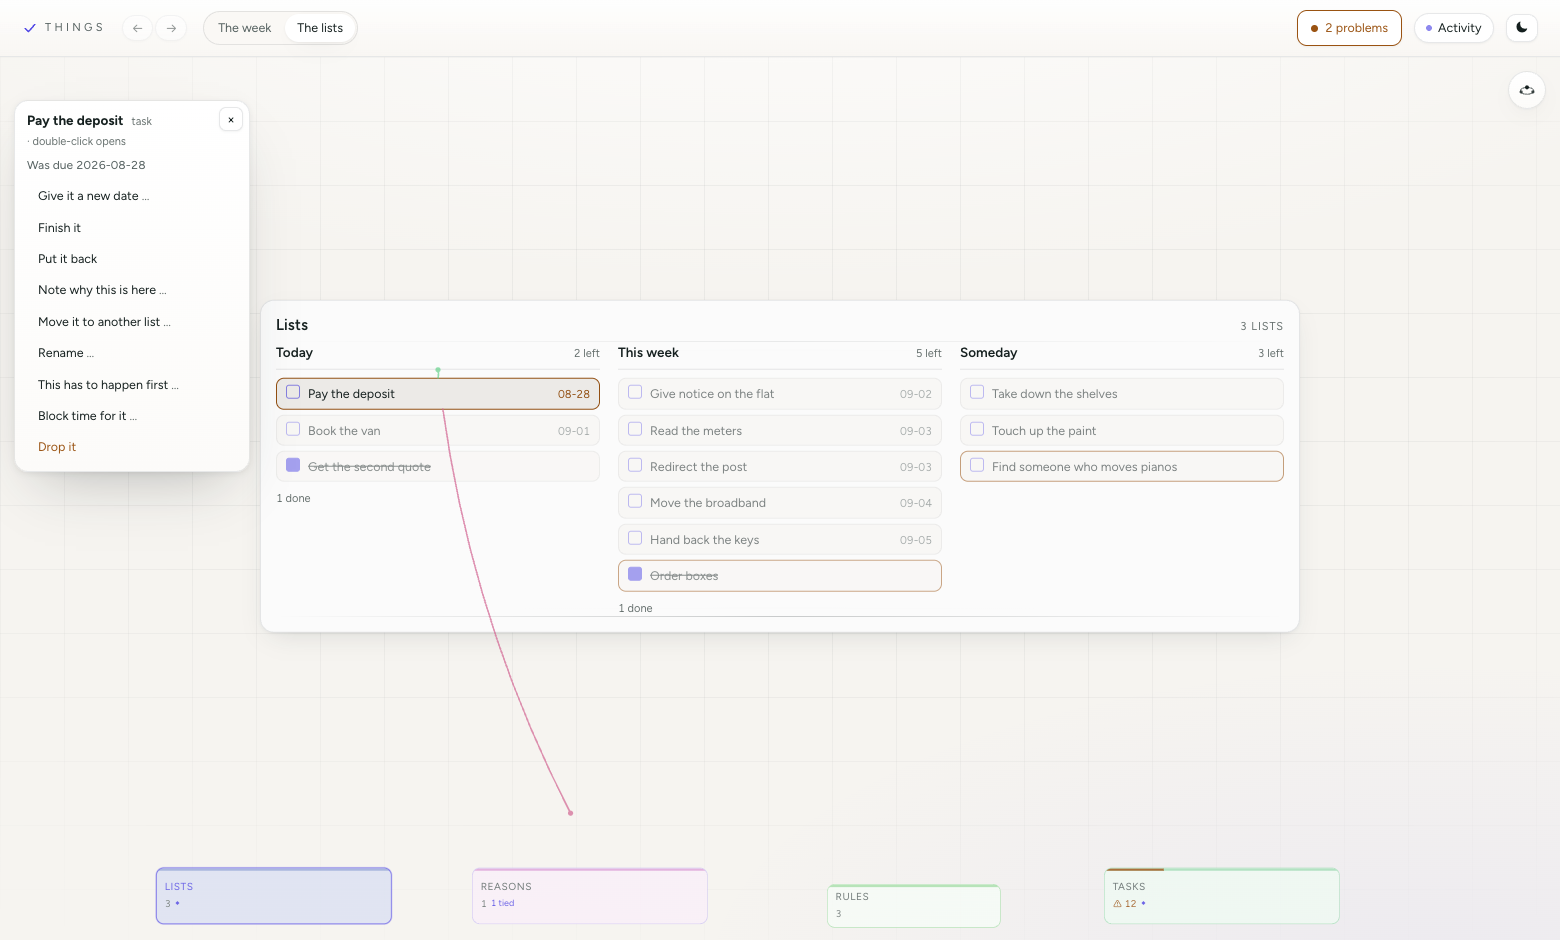
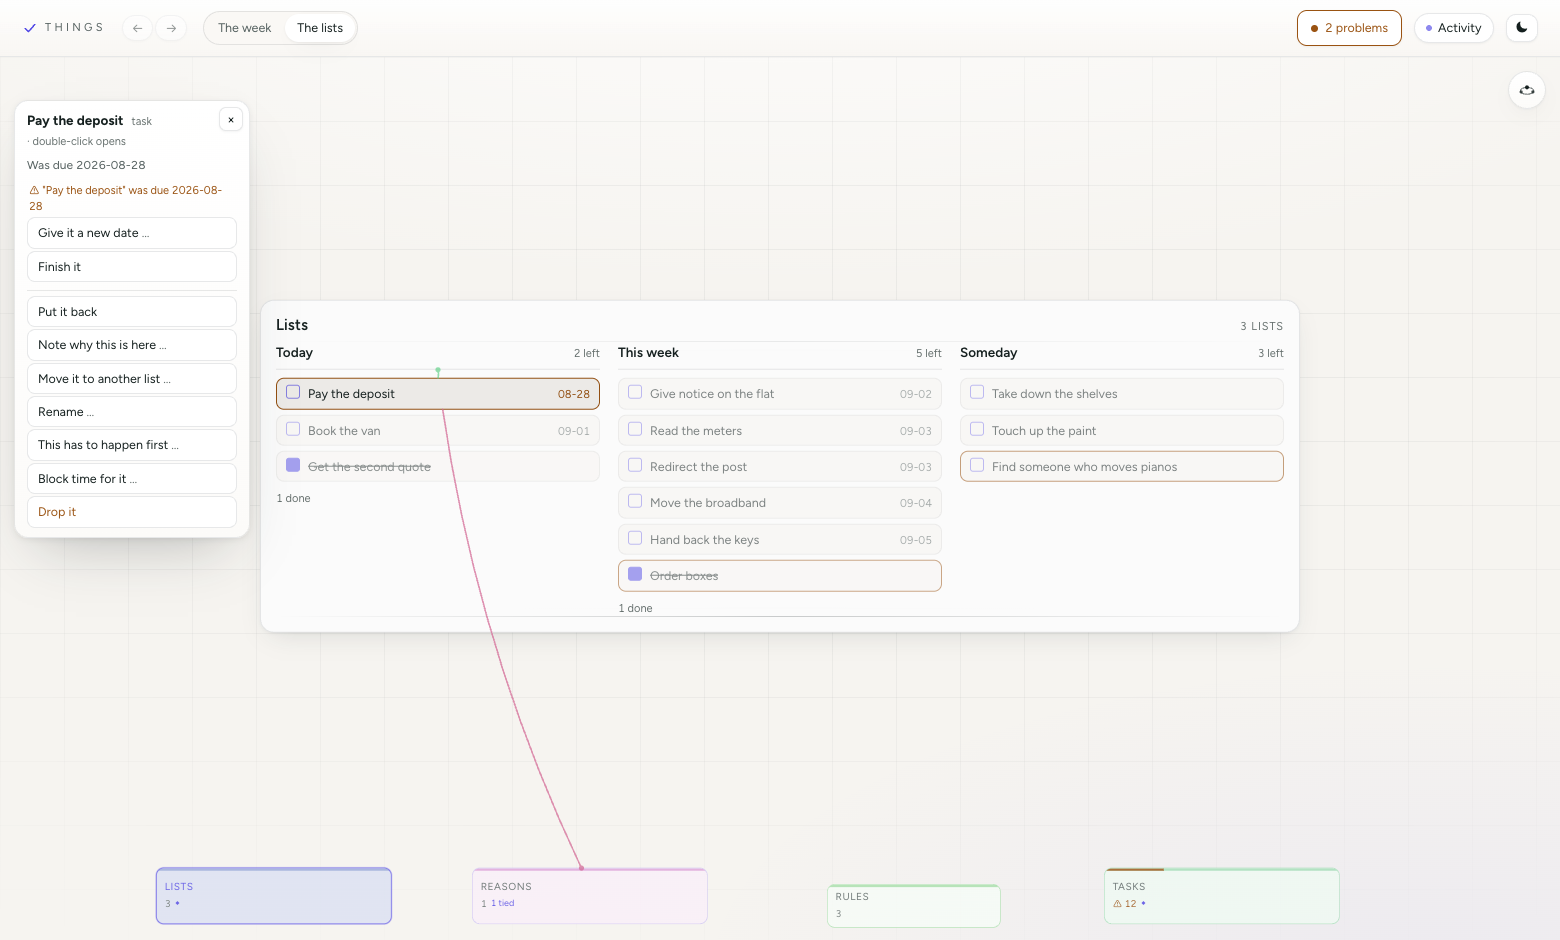
Repairs say what they answer, and every line lands on the thing it means
THE PANE EXPLAINS ITSELF. Actions group under what they answer: a repair
arrives carrying its violation, and that sentence now heads its group — so
"Cut 'Crossing and finishing' from Thursday session — 20 minutes back"
sits under "⚠ Thursday session plans 65 minutes into 60 — 5 over" instead
of appearing from nowhere (and the coaching example's cut/shorten/run-later repairs name
their session at the source). Rows read as PRESSABLE — border and ground
like every button in the product; bare text rows read as remarks, and
nobody presses a remark. The pointer menu keeps its menu rows. The pane
also stops above the raised band and scrolls, so a tall list of repairs
cannot buy its height with the first raised card.

EVERY LINE LANDS. Three anchoring faults, one theme — lines aimed at boxes
nobody can see. A rotated column header's bounding box is a huge diagonal
rectangle, so ties anchored mid-air: of all elements wearing an id, the
SMALLEST is now the anchor. A tie to a chip inside the selection's own
card is the selection restating itself and draws nothing — unless the
origin is itself an element, because chip-to-chip inside one view is the
view's wiring made visible. In-stack targets no longer land on the
invisible iso block (it exists only at altitude). Captions hang above the
measured panels rather than the band slots. And the tween ends with one
SETTLE TICK: render-time measurement reads the previous commit, so the
[…]

Changed region(s): [[0.0, 0.1851, 0.1538, 0.5862], [0.3385, 0.8021, 0.3692, 0.8638], [0.3077, 0.7096, 0.3385, 0.7404]]

diff --git a/packages/react/src/scene.tsx b/packages/react/src/scene.tsx
@@ -553,10 +553,16 @@ export function Scene<S extends AnySchema>({
         selection={selection}
         store={store}
         graphNodes={nodes}
+        overview={view.overview ?? false}
         width={result.width}
         height={result.height}
       />
-      <RelationCaptions nodes={frame.nodes} scheme={scheme} width={result.width} />
+      <RelationCaptions
+        nodes={frame.nodes}
+        scheme={scheme}
+        width={result.width}
+        stageRef={wrapperRef}
+      />
       {children}
     </div>
   );
@@ -585,6 +591,7 @@ function SelectionTies<S extends AnySchema>({
   selection,
   store,
   graphNodes,
+  overview,
   width,
   height,
 }: {
@@ -594,6 +601,8 @@ function SelectionTies<S extends AnySchema>({
   readonly selection: readonly string[];
   readonly store: { graph: GraphReader<NodeOfSchema<S>> };
   readonly graphNodes: unknown;
+  /** From altitude a district's visible body is its iso block. */
+  readonly overview: boolean;
   readonly width: number;
   readonly height: number;
 }) {
@@ -622,13 +631,24 @@ function SelectionTies<S extends AnySchema>({
    * itself is still a place a tie can land on).
    */
   const elementBox = (id: string): { x: number; y: number; width: number; height: number } | null => {
-    const el = stageRef.current?.querySelector(
+    /*
+     * The SMALLEST element wearing the id. One node can be drawn several
+     * times — a chip in a card, a row label, a rotated column header — and
+     * a rotated header's bounding box is a huge diagonal rectangle whose
+     * border is nowhere near the visible text: a tie anchored to it lands
+     * in open air. The smallest box is the most honest anchor there is.
+     */
+    const els = stageRef.current?.querySelectorAll(
       `[data-graview-pick="${CSS.escape(id)}"], [data-graview-slot="${CSS.escape(id)}"]`,
     );
-    if (!el) return null;
-    const rect = el.getBoundingClientRect();
-    if (rect.width <= 2) return null;
-    return { x: rect.left - stage.left, y: rect.top - stage.top, width: rect.width, height: rect.height };
+    let best: DOMRect | null = null;
+    for (const el of els ?? []) {
+      const rect = el.getBoundingClientRect();
+      if (rect.width <= 2 || rect.height <= 2) continue;
+      if (!best || rect.width * rect.height < best.width * best.height) best = rect;
+    }
+    if (!best) return null;
+    return { x: best.left - stage.left, y: best.top - stage.top, width: best.width, height: best.height };
   };
   /** The laid-out node that IS this id, or stands for it. */
   const hostOf = (id: string): SceneNode | undefined =>
@@ -639,26 +659,66 @@ function SelectionTies<S extends AnySchema>({
   const lines: { key: string; kind: string; d: string; endX: number; endY: number }[] = [];
   for (const tie of ties) {
     const selfHost = hostOf(tie.self);
-    const otherEl = elementBox(tie.other);
-    const otherHost = hostOf(tie.other);
-    /*
-     * A tie INTERNAL to the view you are looking at draws no line. With no
-     * element of its own, the neighbour would resolve to the same container
-     * the selection sits in — a line from a thing to the border of its own
-     * room, which is the broken-looking stub this replaces. The view's own
-     * emphasis already shows in-view relationships.
-     */
-    if (!otherEl && otherHost && selfHost && otherHost.id === selfHost.id) continue;
+    const selfHostEl = selfHost
+      ? stageRef.current?.querySelector(`[data-graview-view="${CSS.escape(selfHost.id)}"]`)
+      : null;
+    const fromEl = elementBox(tie.self);
     const fromBox =
-      elementBox(tie.self) ??
+      fromEl ??
       (selfHost
         ? (measureVisible(stageRef.current, selfHost.id, false) ?? drawnBox(selfHost, scheme))
         : null);
-    const toBox =
-      otherEl ??
-      (otherHost
-        ? (measureVisible(stageRef.current, otherHost.id, true) ?? drawnBox(otherHost, scheme))
-        : null);
+    /*
+     * Where the OTHER end lands, in order of honesty:
+     *
+     * 1. Its own placed card — a raised or ring node is the thing itself,
+     *    and beats any chip that merely mentions it (the fan of dashes
+     *    sweeping out of the fixture card's own border was ties preferring
+     *    the card's OWN chips over the real cards below).
+     * 2. An element standing for it — but an element inside the selection's
+     *    own card only counts when the origin is itself an element:
+     *    chip-to-chip inside one view is the view's wiring made visible;
+     *    whole-card-to-its-own-chip is the selection restating itself.
+     * 3. The group card containing it — unless that is the very card the
+     *    selection sits in, in which case the tie is internal and the
+     *    view's own emphasis already shows it.
+     */
+    const otherNode = nodes.find((node) => node.id === tie.other);
+    let toBox: { x: number; y: number; width: number; height: number } | null = null;
+    if (otherNode) {
+      toBox =
+        measureVisible(stageRef.current, otherNode.id, overview) ?? drawnBox(otherNode, scheme);
+    } else {
+      const otherEls = [
+        ...(stageRef.current?.querySelectorAll(
+          `[data-graview-pick="${CSS.escape(tie.other)}"], [data-graview-slot="${CSS.escape(tie.other)}"]`,
+        ) ?? []),
+      ];
+      if (otherEls.length > 0) {
+        let best: DOMRect | null = null;
+        for (const el of otherEls) {
+          const internal = selfHostEl ? selfHostEl.contains(el) : false;
+          if (internal && !fromEl) continue;
+          const rect = el.getBoundingClientRect();
+          if (rect.width <= 2 || rect.height <= 2) continue;
+          if (!best || rect.width * rect.height < best.width * best.height) best = rect;
+        }
+        if (best)
+          toBox = {
+            x: best.left - stage.left,
+            y: best.top - stage.top,
+            width: best.width,
+            height: best.height,
+          };
+      } else {
+        const otherHost = hostOf(tie.other);
+        if (otherHost && (!selfHost || otherHost.id !== selfHost.id)) {
+          toBox =
+            measureVisible(stageRef.current, otherHost.id, overview) ??
+            drawnBox(otherHost, scheme);
+        }
+      }
+    }
     if (!fromBox || !toBox) continue;
     // Several members of one shelf card collapse to one line per relation.
     const key = `${tie.kind}:${Math.round(fromBox.x)}:${Math.round(toBox.x)},${Math.round(toBox.y)}`;
@@ -739,18 +799,27 @@ function RelationCaptions({
   nodes,
   scheme,
   width: stageWidth,
+  stageRef,
 }: {
   readonly nodes: readonly SceneNode[];
   readonly scheme: "light" | "dark";
   readonly width: number;
+  readonly stageRef: { current: HTMLElement | null };
 }) {
   const runs: { key: string; text: string; left: number; right: number; top: number }[] = [];
   for (const node of nodes) {
     if (!node.via || Math.round(node.plane) !== 1) continue;
+    /*
+     * Above the PANEL someone can see, not the band slot the layout allots:
+     * a raised card centres its panel in a taller host, so a caption hung
+     * from the host's top floated in open ground half a band above the
+     * cards it captions.
+     */
+    const measured = measureVisible(stageRef.current, node.id, false);
     const { scale } = styleFor(1, scheme);
-    const left = node.x;
-    const right = node.x + node.width * scale;
-    const top = node.y;
+    const left = measured?.x ?? node.x;
+    const right = measured ? measured.x + measured.width : node.x + node.width * scale;
+    const top = measured?.y ?? node.y;
     const last = runs[runs.length - 1];
     if (last && last.key === node.via.edgeKind) {
       last.right = Math.max(last.right, right);

diff --git a/packages/primitives/src/workbench/index.tsx b/packages/primitives/src/workbench/index.tsx
@@ -276,6 +276,21 @@ export function Inspector() {
 
   const shown = expanded || atPointer ? affordances : affordances.slice(0, fits);
   const hidden = affordances.length - shown.length;
+  /*
+   * GROUPED BY WHAT THEY ANSWER. A repair arrives carrying the violation
+   * that produced it, and without that sentence over it, "Cut X from
+   * Thursday" offered on a selection of Y reads as a non sequitur. The
+   * ranked order is untouched — consecutive repairs of one violation
+   * gather under its sentence; everything else runs on below.
+   */
+  const sections: { heading: string | null; items: typeof affordances }[] = [];
+  for (const affordance of shown) {
+    const heading =
+      !atPointer && affordance.provider === "invariant" ? affordance.why : null;
+    const last = sections[sections.length - 1];
+    if (last && last.heading === heading) (last.items as Affordance[]).push(affordance);
+    else sections.push({ heading, items: [affordance] });
+  }
   const open = affordances.find((affordance) => affordance.id === pending);
 
   /*
@@ -346,7 +361,12 @@ export function Inspector() {
               // surveyed width, so the pane sits NEXT to the picture rather
               // than on its title.
               width: 236,
-              maxHeight: view.overview ? "calc(100vh - 372px)" : "calc(100vh - 104px)",
+              /*
+               * The pane stops ABOVE the raised band (plane 1 begins at 68%
+               * of the stage) and scrolls inside itself: a tall list of
+               * repairs must not buy its height with the first raised card.
+               */
+              maxHeight: view.overview ? "calc(100vh - 372px)" : "calc(68vh - 94px)",
               overflow: "auto",
             }),
       }}
@@ -512,44 +532,83 @@ export function Inspector() {
             gap: 2,
           }}
         >
-          {shown.map((affordance) => (
-            <li key={affordance.id}>
-              <button
-                type="button"
-                data-affordance={affordance.id}
-                data-graview-destructive={affordance.destructive || undefined}
-                aria-pressed={pending === affordance.id}
-                title={affordance.why}
-                style={{
-                  padding: "4px 10px",
-                  fontSize: 12.5,
-                  borderRadius: 8,
-                  width: "100%",
-                  textAlign: "left",
-                  border: "1px solid transparent",
-                  background: "none",
-                  boxShadow: "none",
-                  // What cannot be taken back says so before it is pressed —
-                  // and the ranking has already put it last.
-                  ...(affordance.destructive ? { color: "var(--graview-warn)" } : {}),
-                  ...(pending === affordance.id
-                    ? { borderColor: "var(--graview-accent)", color: "var(--graview-accent)" }
-                    : {}),
-                }}
-                onClick={() => {
-                  if (affordance.open.length > 0) {
-                    setPending(pending === affordance.id ? null : affordance.id);
-                    return;
-                  }
-                  act(affordance);
-                }}
-              >
-                {affordance.label}
-                {affordance.open.length > 0 ? (
-                  <span style={{ color: "var(--graview-ink-faint)" }}> …</span>
-                ) : null}
-              </button>
-            </li>
+          {sections.map((section, index) => (
+            <Fragment key={section.heading ?? `plain-${index}`}>
+              {/* The violation these repairs answer, said over them. */}
+              {section.heading ? (
+                <li
+                  role="presentation"
+                  style={{
+                    fontSize: 11,
+                    lineHeight: 1.4,
+                    color: "var(--graview-warn)",
+                    padding: "2px 2px 1px",
+                    marginTop: index > 0 ? 6 : 0,
+                  }}
+                >
+                  ⚠ {section.heading}
+                </li>
+              ) : index > 0 ? (
+                <li
+                  aria-hidden="true"
+                  style={{ borderTop: "1px solid var(--graview-edge)", margin: "6px 0 3px" }}
+                />
+              ) : null}
+              {section.items.map((affordance) => (
+                <li key={affordance.id}>
+                  <button
+                    type="button"
+                    data-affordance={affordance.id}
+                    data-graview-destructive={affordance.destructive || undefined}
+                    aria-pressed={pending === affordance.id}
+                    title={affordance.why}
+                    style={{
+                      padding: "5px 10px",
+                      fontSize: 12.5,
+                      borderRadius: 8,
+                      width: "100%",
+                      textAlign: "left",
+                      /*
+                       * In the pane an action looks PRESSABLE — border and
+                       * ground, like every other button in the product. Rows
+                       * of bare text read as a list of remarks, and nobody
+                       * presses a remark. The pointer menu keeps menu rows;
+                       * a menu's own frame already says "choose one".
+                       */
+                      ...(atPointer
+                        ? {
+                            border: "1px solid transparent",
+                            background: "none",
+                            boxShadow: "none",
+                          }
+                        : {
+                            border: "1px solid var(--graview-edge)",
+                            background: "var(--graview-panel)",
+                            boxShadow: "none",
+                          }),
+                      // What cannot be taken back says so before it is
+                      // pressed — and the ranking has already put it last.
+                      ...(affordance.destructive ? { color: "var(--graview-warn)" } : {}),
+                      ...(pending === affordance.id
+                        ? { borderColor: "var(--graview-accent)", color: "var(--graview-accent)" }
+                        : {}),
+                    }}
+                    onClick={() => {
+                      if (affordance.open.length > 0) {
+                        setPending(pending === affordance.id ? null : affordance.id);
+                        return;
+                      }
+                      act(affordance);
+                    }}
+                  >
+                    {affordance.label}
+                    {affordance.open.length > 0 ? (
+                      <span style={{ color: "var(--graview-ink-faint)" }}> …</span>
+                    ) : null}
+                  </button>
+                </li>
+              ))}
+            </Fragment>
           ))}
           {hidden > 0 ? (
             <li>

diff --git a/packages/react/src/animation.ts b/packages/react/src/animation.ts
@@ -81,7 +81,23 @@ export function useAnimatedLayout(
         frame.current = requestAnimationFrame(step);
       } else {
         from.current = target;
-        frame.current = null;
+        /*
+         * ONE SETTLE TICK after the last frame has painted.
+         *
+         * Anything that measures the DOM during render — connectors, ties,
+         * captions — reads the PREVIOUS commit's geometry, so the render
+         * that draws t = 1 measures wherever the scene was a frame earlier.
+         * On a smooth tween that is a fraction of a percent; across a
+         * dropped frame it is a visible stray line frozen in mid-air. A
+         * final render on the next frame measures the settled DOM, and a
+         * fresh object identity is what makes React run it.
+         */
+        frame.current = requestAnimationFrame(() => {
+          const settled = interpolate(target, target, 1);
+          latest.current = settled;
+          setCurrent(settled);
+          frame.current = null;
+        });
       }
     };
 
